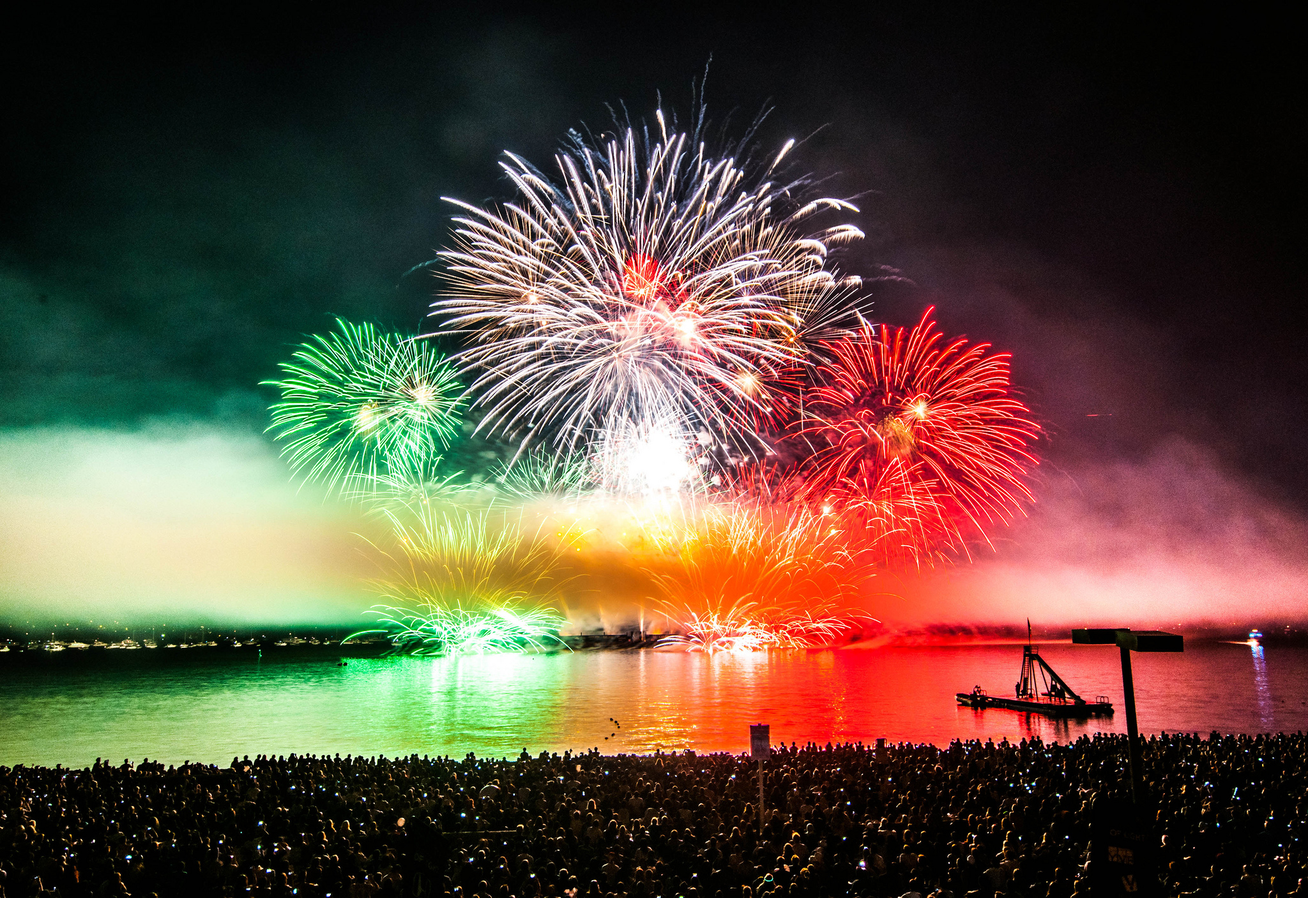
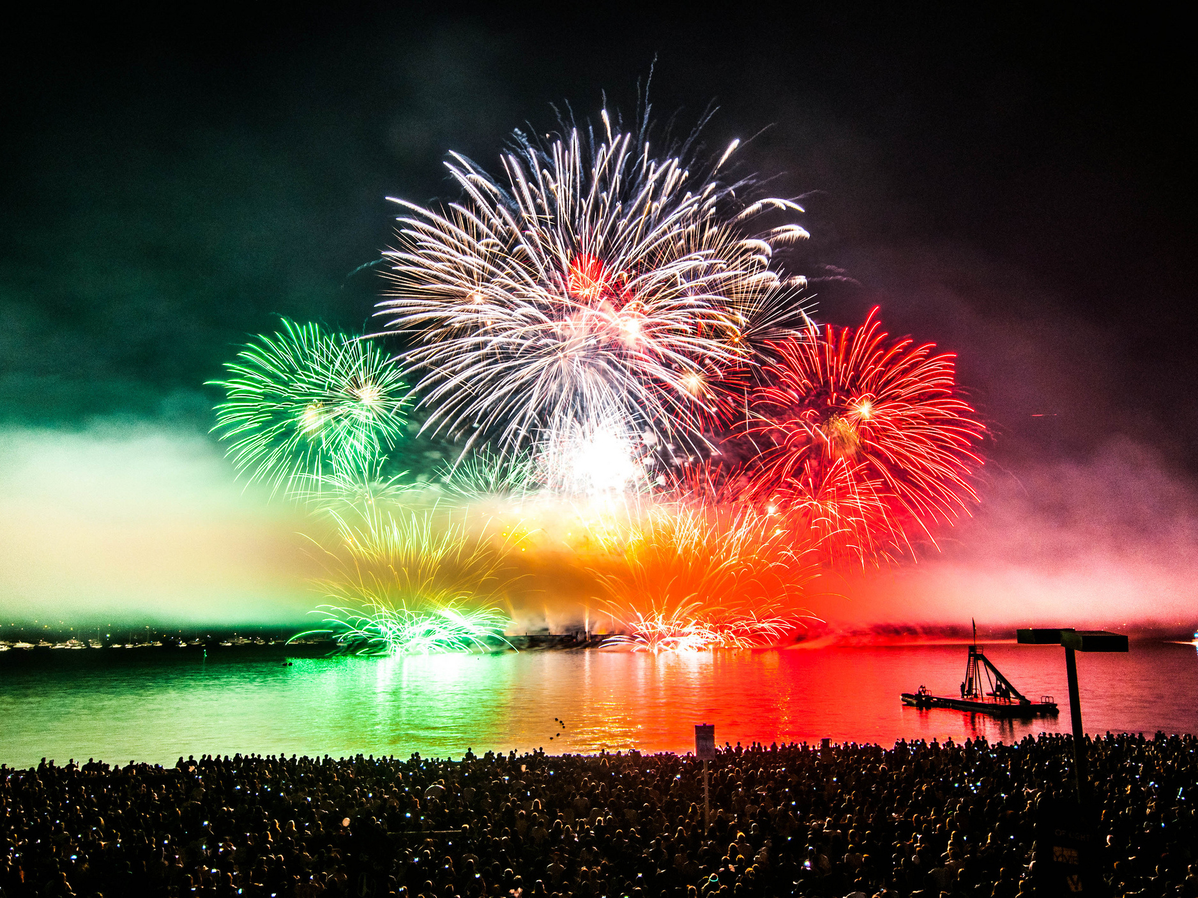
Fleshed out the slide deck further w/ images.

diff --git a/_static/slides_custom.css b/_static/slides_custom.css
@@ -1,3 +1,7 @@
+img.fill {
+    max-height: 100%;
+    max-width: none;
+}
 .slides .caption {
     color: black;
     background: rgba(255, 255, 255, 0.45);
@@ -66,4 +70,8 @@
     margin: 0 0 1.2em 0;
     padding: 0 0.7em 0 60px;
     position: relative;
+}
+.slides p {
+    background: rgba(255, 255, 255, 0.7);
+    border-radius: 10px;
 }

diff --git a/index.rst b/index.rst
@@ -32,6 +32,8 @@ So Many Possibilities!
         - Specialization of skills, greater variety of job specifications
         - Overflowing job market demand
 
+    - Greater tools and programming languages
+
 *********************
 Look At All The Jobs!
 *********************
@@ -86,6 +88,8 @@ Caveat: Your Learning Never Stops!
         - Reliance of third-party developers (i.e. in-house vs. outsourced
           development)
 
+    - Not to mention that different people have different interpretation of how
+      methodology may be intepreted
     - You'll be learning the ropes, regardless of your skill level
 
 ******************************
@@ -100,24 +104,45 @@ Choosing Your Starting Terrain
 Enterprise
 ==========
 
-- Smoother transition into the workforce
-- Expect more conventional tech stacks
-- Great place to behind-the-scene learning *(good and bad)*
-- Stricter corporate culture
+.. figure:: /_static/5536108050_7c56113aaf_b.jpg
+    :class: fill
+
+    CC-BY-NC-ND 2.0 https://flic.kr/p/9rd13N
+
+.. note::
+
+    - Smoother transition into the workforce
+    - Expect more conventional tech stacks
+    - Great place to behind-the-scene learning *(good and bad)*
+    - Stricter corporate culture
 
 Start-up
 ========
 
-- Utilizing more modern stacks == code are more fun to write
-- Have more room for experimentation
-- More learn as you go *(mileage may vary)*
-- More flexibility
+.. figure:: /_static/7631387476_9326867685_k.jpg
+    :class: fill
+
+    CC-BY-NC-SA 2.0 https://flic.kr/p/cCmRC9
+
+.. note::
+
+    - Utilizing more modern stacks == code are more fun to write
+    - Have more room for experimentation
+    - More learn as you go *(mileage may vary)*
+    - More flexibility
 
 Feeling Brave?
 ==============
 
-- Start your own startup/freelancing business!
-- Participate in *Start-up accelerators*
+.. figure:: /_static/2495386426_140d341ae6_o.jpg
+    :class: fill
+
+    CC-BY-NC-ND 2.0 https://flic.kr/p/4NvvrU
+
+.. note::
+
+    - Start your own startup/freelancing business!
+    - Participate in *Start-up accelerators*
 
 **************************
 Tools You Must Master ASAP
@@ -134,6 +159,7 @@ Baseline Across The Board
 - Code editor *(maybe two)*
 - Source control *(most likely Git)*
 - One scripting language
+- One markup language *(Markdown/ReStructuredText)*
 - Ability to read *(seriously)*
 
 The Tech Route
@@ -164,20 +190,54 @@ Other Ways to Level Up
 Communication Skills
 ====================
 
-Because you'll be working w/ **humans**.
+.. figure:: /_static/2046147678_f78e398fcb_b.jpg
+    :class: fill
+
+    CC-BY 2.0 https://flic.kr/p/47P3qf
+
+.. note::
+
+    - Because you'll be working w/ **humans**.
+    - It makes your life smoother and lesser headaches
 
 Be Active in Communities
 ========================
 
+.. figure:: /_static/523370_10150760112619540_471733573_n.jpg
+    :class: fill
+
+    Copyright by Danny Foo @ Webcamp KL, http://facebook.com/groups/webcamp/
+
+.. note::
+
+    - The best way to expand your network == friends and opportunity
+    - Great way to train yourself in people skills
+    - Share knowledge is a great way to establish cred
+    - **Shameless plug** `Webcamp KL @ LvlUp.KL on FB`_
+
+.. _Webcamp KL @ LvlUp.KL on FB: https://facebook.com/groups/webcamp/
+
 Develop Your Own Pet Projects
 =============================
+
+.. figure:: /_static/7827534416_7bbf2d2500_k.jpg
+    :class: fill
+
+    CC-BY 2.0 https://flic.kr/p/cVGagW
 
 Pick A Specialty and Own It
 ===========================
 
-- Technology stack
-- Management methodology
-- Domain knowledge
+.. figure:: /_static/4683377330_614d16df0c_b.jpg
+    :class: fill
+
+    CC-BY-NC-ND 2.0 https://flic.kr/p/88RwV1
+
+.. note::
+
+    - Technology stack
+    - Management methodology
+    - Domain knowledge
 
 ************************
 Other Things to Consider
@@ -191,14 +251,34 @@ Other Things to Consider
 Certification: Worth The Price?
 ===============================
 
-Location: Where to Work?
-========================
+.. figure:: /_static/5436687762_d617b29e9a_b.jpg
+    :class: fill
+
+    CC-BY-NC-ND 2.0 https://flic.kr/p/9hqrRU
+
+.. note::
+
+    - Makes better sense in the enterprise track *(especially the tech oriented
+      ones)*
+    - Some does yield great financial rewards *(Hint: SAP)*
+    - Agile/SCRUM Master certification is quite valued in mid-stage startups
 
 Technobabble
 ============
 
-- Cloud computing
-- Devops: Automation, Continuous Integration
+.. figure:: /_static/6553702109_85a9bea0d2_b.jpg
+    :class: fill
+
+    CC-BY-NC 2.0 https://flic.kr/p/aZ8riX
+
+Some Examples
+-------------
+
+    - TDD/BDD
+    - Responsive design
+    - Cloud computing
+    - Devops: Automation, Continuous Integration
+    - Functional programming, parallel processing
 
 **************
 We Are Hiring!
@@ -212,7 +292,7 @@ We Are Hiring!
 Join The Fun Bunch
 ==================
 
-.. figure:: /_static/11080553_10152622729392245_3971791290848979285_o.jpg
+.. figure:: /_static/IMG-244.jpg
     :class: fill
 
     Copyright by Mindvalley, http://mindvalley.com/
